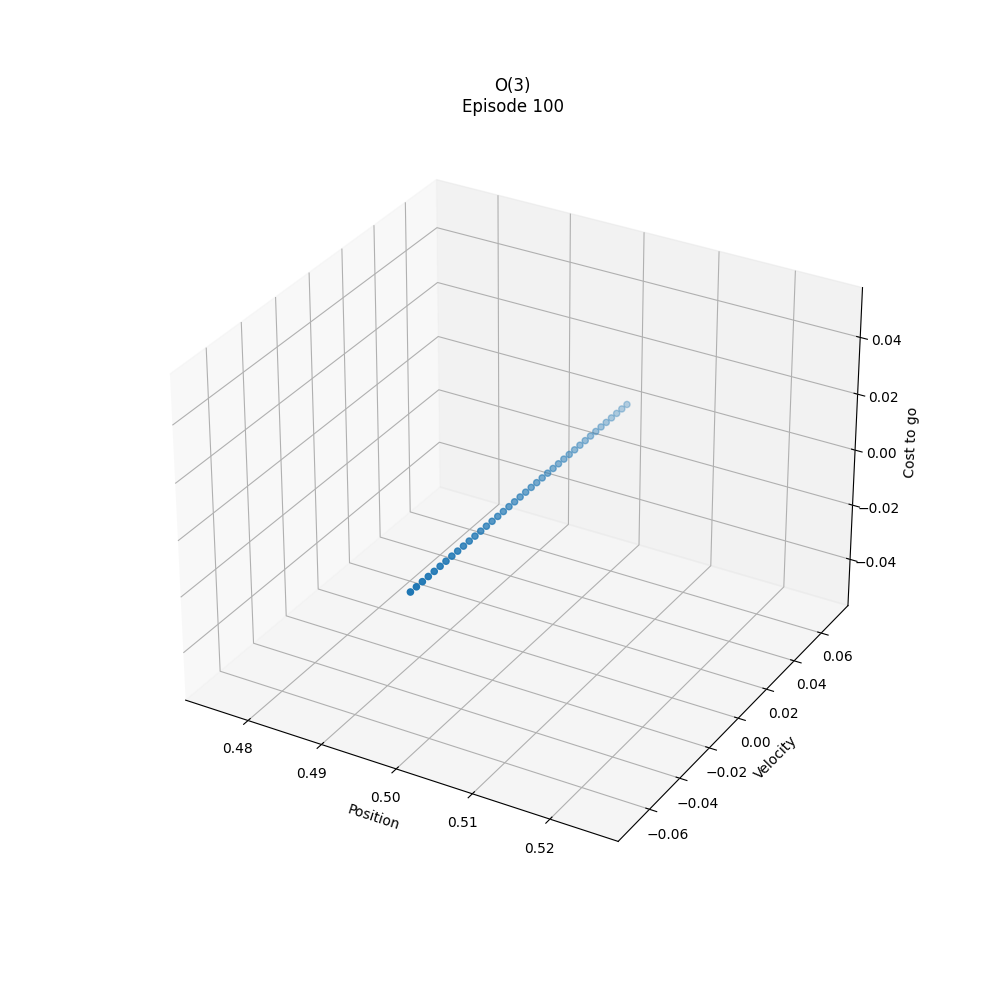
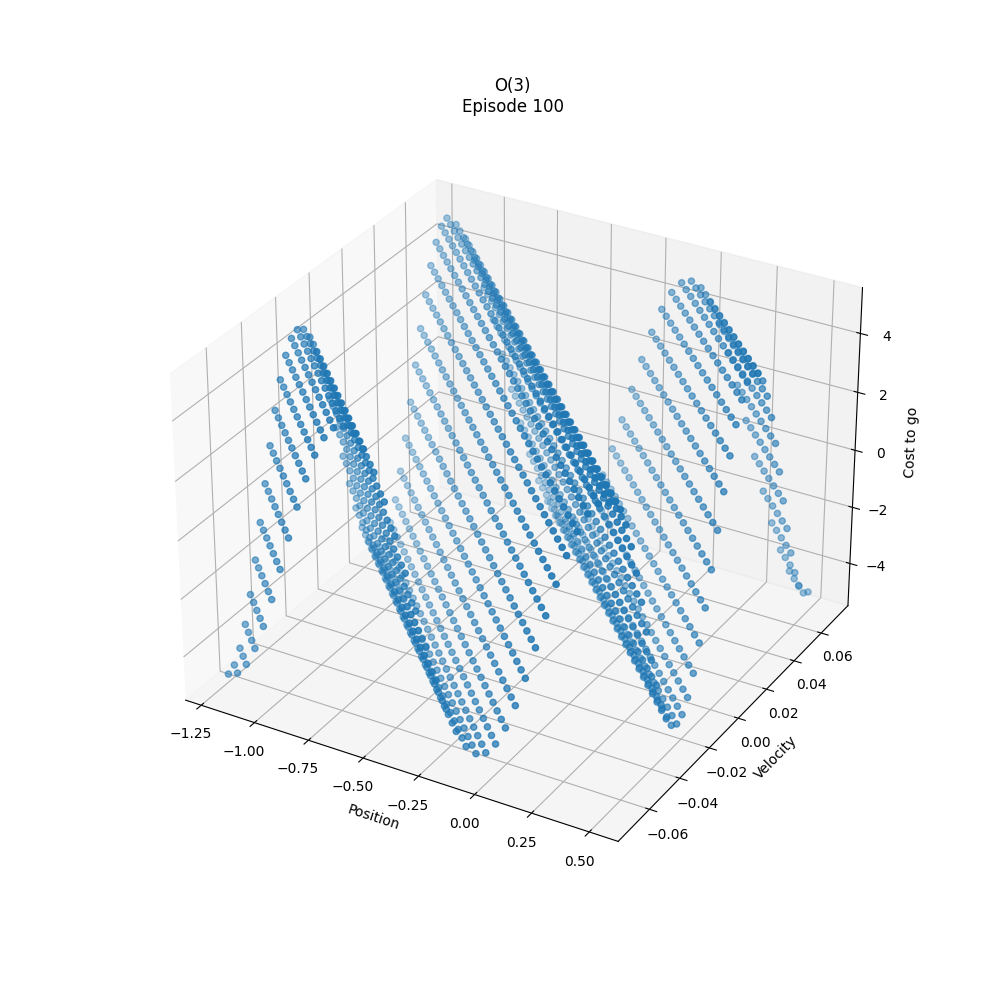
...

diff --git a/PA3/temp2.py b/PA3/temp2.py
@@ -1,86 +1,119 @@
-from itertools import product as prod
-
 import numpy as np
+import gym
+
+# change if desired to required environment, ensure you change num_actions,sample given below
+# env = gym.make('Acrobot-v1')
+env = gym.make('MountainCar-v0')
+# env=gym.make('CartPole-v1') #change num_actions to 2
+
+num_actions = 3  # number of available actions
+num_episodes = 300
+fourier_order = 3  # change order as desired.
+basealpha = 0.001  # change required base alpha
+observations_dim = np.shape(env.observation_space.high)[0]  # the observations in the environment
+
+w = np.zeros([pow(fourier_order + 1, observations_dim),
+              num_actions])  # weight matrix, with number of columns equal number of actions
+stepcount = np.zeros([num_episodes, 1])
+gamma = 1  # discount factor
+zeta = 0.9  # bootstrapping parameter, note that lambda is keyword in python
+epsilon = 0  # set exploration parameter as desired
+visualize_after_steps = 290  # start the display
 
 
-class SarsaLambda:
-    def __init__(self, model, lam: float, alpha: float, gamma: float, epsilon: float, order: int, max_steps: int = 1000):
-        self.model = model
-        self.lam = lam
-        self.alpha = alpha
-        self.gamma = gamma
-        self.epsilon = epsilon
-        self.alphas = [alpha]
-        self.order = order
-        self.dims = len(model.getState())
-        self.max_steps = max_steps
-        self.num_bases = (order + 1) ** self.dims
+def createalphas(basealpha, fourier_order, observations_dim):  # different alpha for different order terms of fourier
+    temp = tuple([np.arange(fourier_order + 1)] * observations_dim)
+    b = np.array(np.meshgrid(*temp)).T.reshape(-1, observations_dim)
+    c = np.linalg.norm(b, axis=1)
+    d = basealpha / c
+    d[0] = basealpha
+    d = np.expand_dims(d, axis=1)
+    alphavec = np.tile(d, num_actions)
+    alphavec = np.reshape(alphavec, (-1, num_actions))
+    return alphavec
 
-        # set up basis function
-        all_consts = list(prod(range(order + 1), repeat=self.dims))
-        self.basis = [lambda s: np.cos(np.pi * np.dot(s, np.array(all_consts[0])))]
-        all_consts.remove(all_consts[0])
 
-        for c in all_consts:
-            c = np.array(c)
-            self.basis.append(lambda s: np.cos(np.pi * np.dot(s, c)))
-            self.alphas.append(alpha / np.linalg.norm(c))
-        self.alphas = np.array(self.alphas)
+def normalize(state):
+    normstate = np.empty(np.shape(state))
+    val = env.observation_space.low
+    val1 = env.observation_space.high
 
-        self.weights = np.zeros((self.num_bases, len(model.actions)))
+    for i in range(np.shape(state)[0]):
+        normstate[i] = translate(state[i], val[i], val1[i], 0, 1)
+    return normstate
 
-    def normalize(self, s):
-        S = s.copy()
-        for i in range(len(S)):
-            S[i] = (S[i] - self.model.min_maxes[i * 2]) / \
-                   (self.model.min_maxes[i * 2 + 1] - self.model.min_maxes[i * 2])
-        return np.array(S)
 
-    def getAction(self, phi) -> int:
-        if np.random.uniform() <= self.epsilon:
-            return np.random.choice(self.model.actions)
-        return self.model.actions[np.argmax([self.value(phi, A) for A in self.model.actions])]
+def computeFourierBasis(state, fourier_order, observations_dim):
+    normstate = normalize(state)
+    temp = tuple([np.arange(fourier_order + 1)] * observations_dim)
+    b = np.array(np.meshgrid(*temp)).T.reshape(-1, observations_dim)
+    return np.cos(np.pi * np.dot(b, normstate))
 
-    # estimate the value of given state and action
-    def value(self, phi, A: int) -> float:
-        return float(np.dot(self.weights[:, self.model.actions.index(A)], phi))
 
-    def playEpisode(self) -> int:
-        self.model.reset()
-        S = self.model.getState()
-        phi = np.array([feature(self.normalize(S)) for feature in self.basis])
-        A = self.getAction(phi)
-        z = np.zeros((self.num_bases, len(self.model.actions)))
+def computevalue(w, action, state):  # compute value of taking some state in some state
+    return np.dot(w[:, action], computeFourierBasis(state, fourier_order, observations_dim))
 
-        for steps in range(self.max_steps):
-            R, S_p = self.model.update(A)
-            phi_p = np.array([feature(self.normalize(S_p)) for feature in self.basis])
-            A_p = self.getAction(phi_p)
-            A_ind = self.model.actions.index(A_p)
-            Q = np.dot(self.weights[:, self.model.actions.index(A)], phi)
-            Q_p = np.dot(self.weights[:, A_ind], phi_p)
 
-            delta = R - Q
-            if not self.model.isTerminal():
-                delta += self.gamma * Q_p
+def updateweights(w, e, alphavec, delta):
+    w = w + delta * alphavec * e
+    return w
 
-            z[:, A_ind] = phi
 
-            for a in range(len(self.model.actions)):
-                self.weights[:, a] += delta * np.multiply(self.alphas, z[:, a])
+def epsilon_greedy(state, epsilon, w):  # pass a state where agent is eps-greedy, weight matrix w
 
-            z *= self.gamma * self.lam
+    temp = np.zeros([1, num_actions])
+    for k in range(num_actions):
+        temp[0, k] = computevalue(w, k, state)
+    c = np.argmax(temp)
 
-            phi = phi_p
-            A = A_p
+    if np.random.rand(1) < epsilon:
+        c = env.action_space.sample()  # epsilon greedy
+    return c
 
-            if self.model.isTerminal():
-                return steps + 1
 
-        return self.max_steps
+def translate(value, leftMin, leftMax, rightMin, rightMax):
+    leftrange = leftMax - leftMin
+    rightrange = rightMax - rightMin
+    # Convert the left range into a 0-1 range (float)
+    valueScaled = float(value - leftMin) / leftrange
+    # Convert the 0-1 range into a value in the right range.
+    return rightMin + (valueScaled * rightrange)
 
-    # get # of steps to reach the goal under current state value function
-    def cost_to_go(self) -> float:
-        S = self.model.getState()
-        phi = np.array([feature(self.normalize(S)) for feature in self.basis])
-        return -max([self.value(phi, A) for A in self.model.actions])
+
+alphavec = createalphas(basealpha, fourier_order, observations_dim)
+# env.monitor.start('/tmp/acrobot-experiment-1',force='True')
+for i in range(int(num_episodes)):
+    env.reset()
+    curstate = env.observation_space.sample()
+    e = np.zeros(np.shape(w))
+    curaction = epsilon_greedy(curstate, epsilon, w)  # epsilon greedy selection
+    steps = 0
+    while steps < 1000:
+        steps += 1
+        # print(normalize(curstate))
+        if i > visualize_after_steps:
+            env.render()
+        stepcount[i, 0] = stepcount[i, 0] + 1
+        e[:, curaction] = e[:, curaction] + computeFourierBasis(curstate, fourier_order,
+                                                                observations_dim)  # accumulating traces
+        nextstate, reward, done, info = env.step(curaction)
+        delta = reward - computevalue(w, curaction, curstate)  # The TD Error
+
+        if done:
+            print("Episode %d finished after %d timesteps" % (i, stepcount[i, 0]))
+            w = updateweights(w, e, alphavec, delta)
+            break
+
+        nextaction = epsilon_greedy(nextstate, epsilon, w)
+        # print(nextaction)
+        delta = delta + gamma * computevalue(w, nextaction, nextstate)
+        w = updateweights(w, e, alphavec, delta)  # update the weight vector
+        e = e * gamma * zeta  # trace decay parameter zeta
+        curstate = nextstate
+        curaction = nextaction
+
+        # if stepcount[i]>1000:
+        # print('failed')
+        # break
+
+env.monitor.close()

diff --git a/PA3/temp.py b/PA3/temp.py
@@ -19,10 +19,10 @@ class SarsaLambda:
         # set up basis function
         all_consts = list(prod(range(order + 1), repeat=self.dims))
         all_consts.remove(all_consts[0])
-        self.basis = [lambda _: 1]
+        self.basis = [lambda _: 0]
         for c in all_consts:
             c = np.array(c)
-            self.basis.append(lambda s: np.cos(np.pi * np.dot(s, c) / 2))
+            self.basis.append(lambda s: np.cos(np.pi * np.dot(s, c)))
             self.alphas.append(alpha / np.linalg.norm(c))
         self.alphas = np.array(self.alphas)
 
@@ -46,7 +46,7 @@ class SarsaLambda:
             return 0.0
 
         phi = np.array([feature(self.normalize(S)) for feature in self.basis])
-        return float(np.dot(self.weights[:, self.model.actions.index(A)], phi))
+        return float(np.dot(self.weights[:, 0], phi))
 
     def playEpisode(self) -> int:
         self.model.reset()
@@ -57,7 +57,7 @@ class SarsaLambda:
         Q_old = 0
 
         for steps in range(self.max_steps):
-            A_ind = self.model.actions.index(A)
+            A_ind = 0  # self.model.actions.index(A)
             R, S_p = self.model.update(A)
             A_p = self.getAction(S_p)
             Q = self.value(S, A)

diff --git a/PA3/test.py b/PA3/test.py
@@ -8,15 +8,15 @@ from tqdm import tqdm
 
 from MountainCar import MountainCar
 # from SarsaLambda import SarsaLambda as sl
-from temp import SarsaLambda as sl
+from temp2 import SarsaLambda as sl
 
 LAMBDA = 0.9
-ALPHA = 1e-2
+ALPHA = 0.001
 GAMMA = 1.0
 EPSILON = 0.0
-EPISODES = 100
-RUNS = max(cpu_count() - 1, 1)
-MAX_STEPS = 2000
+EPISODES = 50
+RUNS = 1  # max(cpu_count() - 1, 1)
+MAX_STEPS = 1000
 
 
 @contextlib.contextmanager
@@ -72,6 +72,8 @@ def main():
         with tqdm_joblib(tqdm(desc="Fourier SARSA(Lambda)", total=len(orders) * RUNS, ncols=100)):
             for i in range(len(orders)):
                 results = parallel(joblib.delayed(learn)(orders[i], grid_size, run) for run in range(RUNS))
+                print(results)
+                print([r[3] for r in results])
                 steps[i, :] = np.sum([r[0] for r in results], axis=0) / RUNS
                 x[i, :] = np.sum([r[1] for r in results], axis=0) / RUNS
                 y[i, :] = np.sum([r[2] for r in results], axis=0) / RUNS
